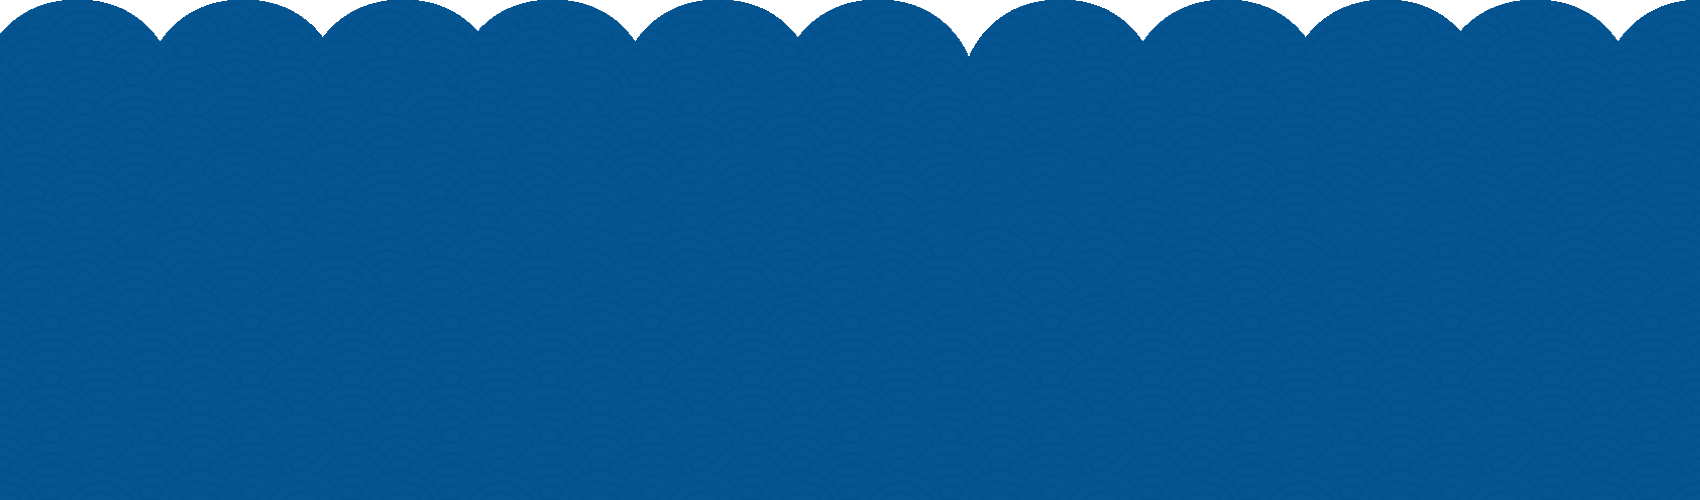
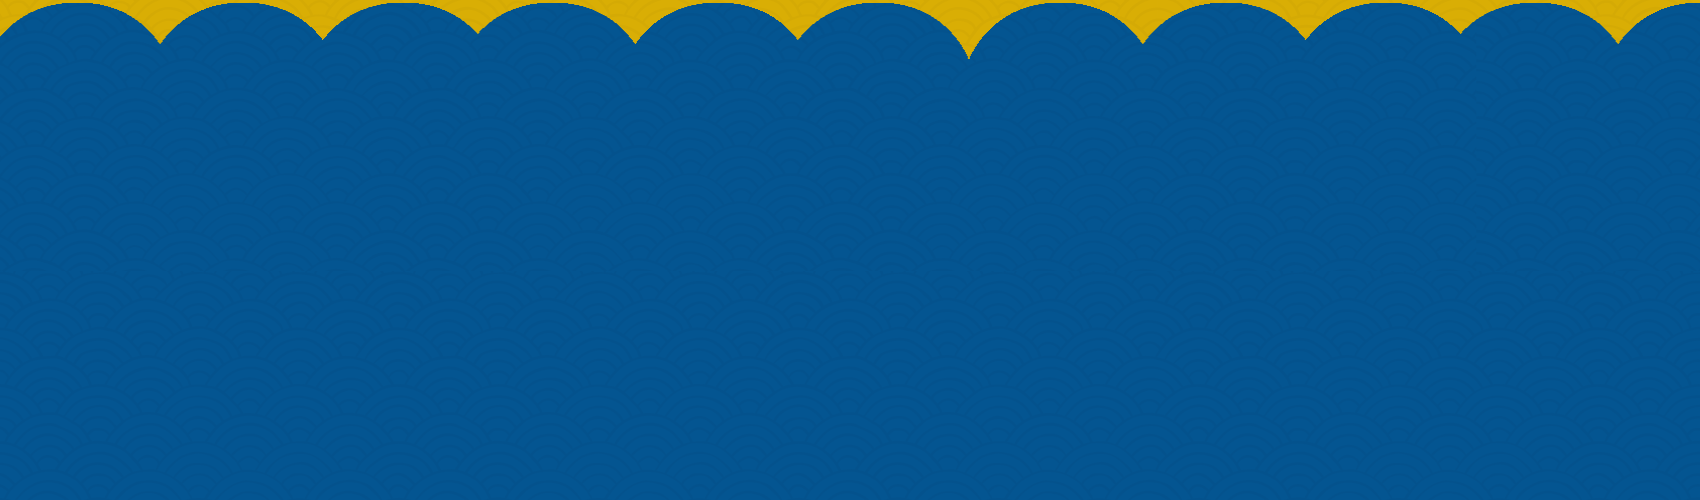
added register info section

Changed region(s): [[0.0, 0.0, 1.0, 0.12]]

diff --git a/index.html b/index.html
@@ -102,6 +102,16 @@
         </div>
     </div>
 
+    <div class="container-fluid register-bg" id="signup">
+        <div class="container text-center">
+            <h1 class="section-heading">How can register?</h1>
+            <p class="section-paragraph">
+                Registration will open in Spring/Summer 2017. We are still in the process of setting a date and a location.
+                You can follow us on facebook or twitter where we will release any news.
+            </p>
+        </div>
+    </div>
+
     <div class="container-fluid quote-bg">
         <div class="container">
             <blockquote class="text-center">

diff --git a/css/custom.css b/css/custom.css
@@ -65,6 +65,7 @@ label {
 
 .section-lead {
     color:#E3B505;
+    font-size:1.4em;
 }
 
 .text-bold {
@@ -146,9 +147,9 @@ hr {
 /**SECTION SIGNUP **/
 
 
-.signup-bg {
-    background-image:url("/img/bg.jpg");
-    background-attachment: fixed;
+.register-bg {
+    background-image:url("../img/yellow-bg.png");
+    padding-top:60px;
     color:white;
 }
 
@@ -171,7 +172,7 @@ hr {
 }
 
 .about-bg .icon {
-    font-size:6em;
+    font-size:5em;
     color:#E3B505;
 }
 
